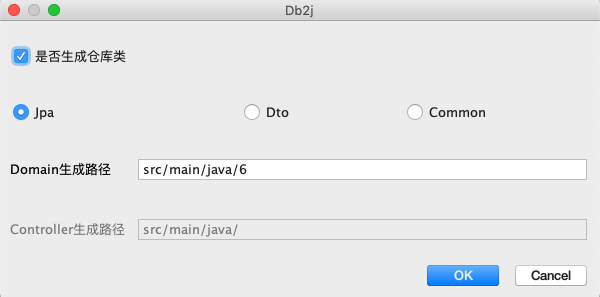
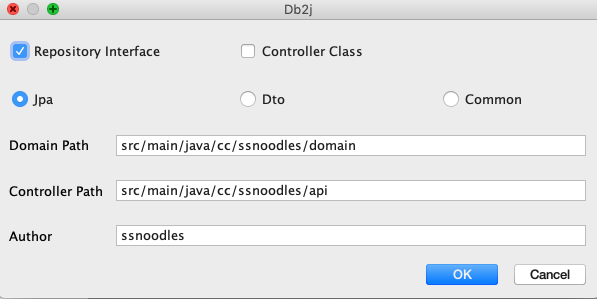
updated readme

diff --git a/src/main/java/cc/ssnoodles/plugin/ui/MainDialog.java b/src/main/java/cc/ssnoodles/plugin/ui/MainDialog.java
@@ -1,18 +1,19 @@
 package cc.ssnoodles.plugin.ui;
 
+import cc.ssnoodles.db.entity.Table;
+import cc.ssnoodles.db.factory.DbFactory;
+import cc.ssnoodles.db.factory.DbFactoryImpl;
+import cc.ssnoodles.db.util.FileUtil;
+import cc.ssnoodles.db.util.StringUtil;
+import cc.ssnoodles.plugin.model.Config;
 import cc.ssnoodles.plugin.model.Template;
 import cc.ssnoodles.plugin.services.GeneratorService;
 import cc.ssnoodles.plugin.services.PersistentStateService;
 import cc.ssnoodles.plugin.util.UiUtil;
-import cc.ssnoodles.plugin.model.Config;
 import com.intellij.database.psi.DbTable;
 import com.intellij.openapi.actionSystem.*;
 import com.intellij.openapi.project.Project;
 import com.intellij.psi.PsiElement;
-import cc.ssnoodles.db.entity.Table;
-import cc.ssnoodles.db.factory.DbFactory;
-import cc.ssnoodles.db.factory.DbFactoryImpl;
-import cc.ssnoodles.db.template.RepositoryTemplate;
 import org.jetbrains.annotations.SystemIndependent;
 
 import javax.swing.*;
@@ -35,6 +36,7 @@ public class MainDialog extends JDialog {
     private JTextField controllerPackage;
     private JCheckBox repositoryCheckBox;
     private JCheckBox controllerCheckBox;
+    private JTextField author;
     private ButtonGroup buttonGroup = new ButtonGroup();
 
     private PsiElement[] psiElements;
@@ -81,6 +83,7 @@ public class MainDialog extends JDialog {
             repositoryCheckBox.setSelected(historyConfig.isRepository());
             domainPackage.setText(historyConfig.getDomainPackage());
             controllerPackage.setText(historyConfig.getControllerPackage());
+            author.setText(historyConfig.getAuthor());
             if (Template.JPA.name().equalsIgnoreCase(historyConfig.getTemplateType())) {
                 jpaRadioButton.setSelected(true);
             }else if (Template.DTO.name().equalsIgnoreCase(historyConfig.getTemplateType())) {
@@ -112,9 +115,13 @@ public class MainDialog extends JDialog {
         historyConfig.setControllerPackage(controllerPackage.getText());
         historyConfig.setDomainPackage(domainPackage.getText());
         historyConfig.setRepository(repositoryCheckBox.isSelected());
+        historyConfig.setAuthor(author.getText());
         config.put("history", historyConfig);
         persistentStateService.setConfig(config);
 
+        if (!StringUtil.isEmpty(author.getText())) {
+            FileUtil.PROPERTIES.setAuthor(author.getText());
+        }
 
         GeneratorService generatorService = GeneratorService.of();
         @SystemIndependent String projectPath = project.getBasePath();

diff --git a/src/main/java/cc/ssnoodles/plugin/model/Config.java b/src/main/java/cc/ssnoodles/plugin/model/Config.java
@@ -26,6 +26,11 @@ public class Config {
      */
     private String controllerPackage;
 
+    /**
+     * 作者
+     */
+    private String author;
+
     public boolean isRepository() {
         return repository;
     }
@@ -59,6 +64,15 @@ public class Config {
 
     public Config setControllerPackage(String controllerPackage) {
         this.controllerPackage = controllerPackage;
+        return this;
+    }
+
+    public String getAuthor() {
+        return author;
+    }
+
+    public Config setAuthor(String author) {
+        this.author = author;
         return this;
     }
 }

diff --git a/src/main/java/cc/ssnoodles/plugin/services/GeneratorService.java b/src/main/java/cc/ssnoodles/plugin/services/GeneratorService.java
@@ -59,7 +59,7 @@ public class GeneratorService {
     public void generateEntity(Table table, String projectPath, String domainPackage, Template template) {
         projectPath = projectPath + "/" + domainPackage + "/";
         FileUtil.write2JavaFiles(
-                projectPath + StringUtil.underlineToHumpTopUpperCase(table.getName()),
+                projectPath + StringUtil.underlineToHumpTopUpperCase(table.getName()) + template.endsWith(),
                 domainPackage(domainPackage) + template.tableDataToString(table));
     }
 

diff --git a/README.md b/README.md
@@ -1,13 +1,16 @@
 # Db2j idea plugin
-插件功能：在idea的database工具中使用，选择表（可多张），生成相关的代码。包括: domain、repository。
+插件功能：在idea的database工具中使用，选择表（可多张），生成相关的代码。包括: domain、repository、controller。
 
 [插件地址](https://plugins.jetbrains.com/plugin/11965-db2j)
 
 # Plugin Installation：
 - 在idea插件系统里安装:
-  - <kbd>Preferences</kbd> > <kbd>Plugins</kbd> > <kbd>Browse repositories...</kbd> > <kbd>Search for "db2j"</kbd> > <kbd>Install Plugin</kbd>
+  - <kbd>Preferences</kbd> > <kbd>Plugins</kbd> > <kbd>Marketplace</kbd> > <kbd>Search for "db2j"</kbd> > <kbd>Install Plugin</kbd>
 - 手动zip安装:
   - Download the [latest release](https://github.com/SShnoodles/db2j-idea-plugin/releases) and install it manually using <kbd>Preferences</kbd> > <kbd>Plugins</kbd> > <kbd>Install plugin from disk...</kbd>
+
+# Quick Start
+![image](images/video.gif)
 
 # Using screenshots：
 ### 1、添加Database
